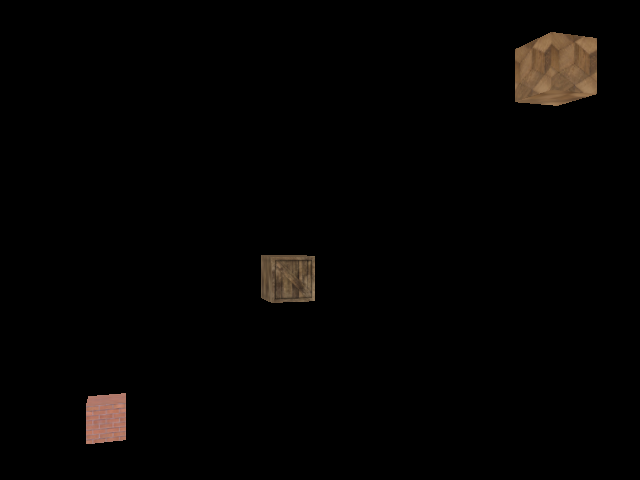
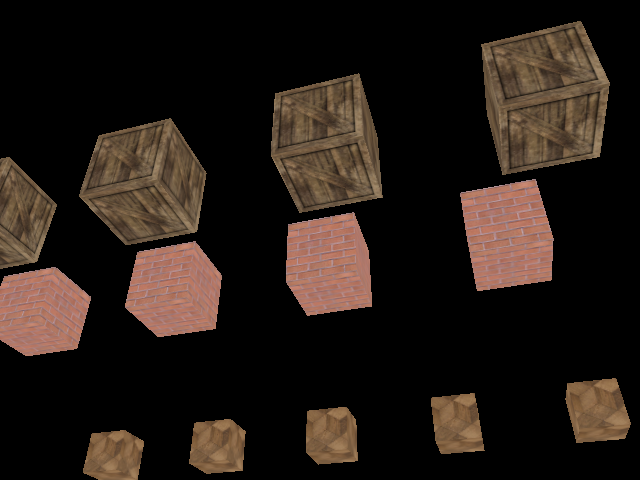
edits to drawing multiple cubes

diff --git a/src/camera_controls/camera_controls.cpp b/src/camera_controls/camera_controls.cpp
@@ -12,44 +12,57 @@
 
 using namespace std;
 
-
-const struct
+struct Vertices
 {
     float x, y, z;
     float u, v;
-} vertices[] =
+};
+
+Vertices cube_small_vertices[] =
 {
-    { -4.5, -4.5, -3.5, 0.0, 0.0 },
-    { -3.5, -4.5, -3.5, 1.0, 0.0 },
-    { -3.5, -3.5, -3.5, 1.0, 1.0 },
-    { -4.5, -3.5, -3.5, 0.0, 1.0 },
+    { -0.25, -0.25,  0.25, 0.0, 0.0 },
+    {  0.25, -0.25,  0.25, 1.0, 0.0 },
+    {  0.25,  0.25,  0.25, 1.0, 1.0 },
+    { -0.25,  0.25,  0.25, 0.0, 1.0 },
 
-    { -4.5, -3.5, -3.5, 0.0, 0.0 },
-    { -3.5, -3.5, -3.5, 1.0, 0.0 },
-    { -3.5, -3.5, -4.5, 1.0, 1.0 },
-    { -4.5, -3.5, -4.5, 0.0, 1.0 },
+    { -0.25,  0.25,  0.25, 0.0, 0.0 },
+    {  0.25,  0.25,  0.25, 1.0, 0.0 },
+    {  0.25,  0.25, -0.25, 1.0, 1.0 },
+    { -0.25,  0.25, -0.25, 0.0, 1.0 },
 
-    { -3.5, -4.5, -4.5, 0.0, 0.0 },
-    { -4.5, -4.5, -4.5, 1.0, 0.0 },
-    { -4.5, -3.5, -4.5, 1.0, 1.0 },
-    { -3.5, -3.5, -4.5, 0.0, 1.0 },
+    {  0.25, -0.25, -0.25, 0.0, 0.0 },
+    { -0.25, -0.25, -0.25, 1.0, 0.0 },
+    { -0.25,  0.25, -0.25, 1.0, 1.0 },
+    {  0.25,  0.25, -0.25, 0.0, 1.0 },
 
-    { -4.5, -4.5, -4.5, 0.0, 0.0 },
-    { -3.5, -4.5, -4.5, 1.0, 0.0 },
-    { -3.5, -4.5, -3.5, 1.0, 1.0 },
-    { -4.5, -4.5, -3.5, 0.0, 1.0 },
+    { -0.25, -0.25, -0.25, 0.0, 0.0 },
+    {  0.25, -0.25, -0.25, 1.0, 0.0 },
+    {  0.25, -0.25,  0.25, 1.0, 1.0 },
+    { -0.25, -0.25,  0.25, 0.0, 1.0 },
 
-    { -4.5, -4.5, -4.5, 0.0, 0.0 },
-    { -4.5, -4.5, -3.5, 1.0, 0.0 },
-    { -4.5, -3.5, -3.5, 1.0, 1.0 },
-    { -4.5, -3.5, -4.5, 0.0, 1.0 },
+    { -0.25, -0.25, -0.25, 0.0, 0.0 },
+    { -0.25, -0.25,  0.25, 1.0, 0.0 },
+    { -0.25,  0.25,  0.25, 1.0, 1.0 },
+    { -0.25,  0.25, -0.25, 0.0, 1.0 },
 
-    { -3.5, -4.5, -3.5, 0.0, 0.0 },
-    { -3.5, -4.5, -4.5, 1.0, 0.0 },
-    { -3.5, -3.5, -4.5, 1.0, 1.0 },
-    { -3.5, -3.5, -3.5, 0.0, 1.0 },
+    {  0.25, -0.25,  0.25, 0.0, 0.0 },
+    {  0.25, -0.25, -0.25, 1.0, 0.0 },
+    {  0.25,  0.25, -0.25, 1.0, 1.0 },
+    {  0.25,  0.25,  0.25, 0.0, 1.0 },
+};
 
+const uint32_t cube_small_indices[] =
+{
+     0,  1,  2,  2,  3,  0,
+     4,  5,  6,  6,  7,  4,
+     8,  9, 10, 10, 11,  8,
+    12, 13, 14, 14, 15, 12,
+    16, 17, 18, 18, 19, 16,
+    20, 21, 22, 22, 23, 20,
+};
 
+Vertices cube_medium_vertices[] =
+{
     { -0.5, -0.5,  0.5, 0.0, 0.0 },
     {  0.5, -0.5,  0.5, 1.0, 0.0 },
     {  0.5,  0.5,  0.5, 1.0, 1.0 },
@@ -79,62 +92,60 @@ const struct
     {  0.5, -0.5, -0.5, 1.0, 0.0 },
     {  0.5,  0.5, -0.5, 1.0, 1.0 },
     {  0.5,  0.5,  0.5, 0.0, 1.0 },
-
-
-    {  3.5,  3.5,  4.5, 0.0, 0.0 },
-    {  4.5,  3.5,  4.5, 1.0, 0.0 },
-    {  4.5,  4.5,  4.5, 1.0, 1.0 },
-    {  3.5,  4.5,  4.5, 0.0, 1.0 },
-
-    {  3.5,  4.5,  4.5, 0.0, 0.0 },
-    {  4.5,  4.5,  4.5, 1.0, 0.0 },
-    {  4.5,  4.5,  3.5, 1.0, 1.0 },
-    {  3.5,  4.5,  3.5, 0.0, 1.0 },
-
-    {  4.5,  3.5,  3.5, 0.0, 0.0 },
-    {  3.5,  3.5,  3.5, 1.0, 0.0 },
-    {  3.5,  4.5,  3.5, 1.0, 1.0 },
-    {  4.5,  4.5,  3.5, 0.0, 1.0 },
-
-    {  3.5,  3.5,  3.5, 0.0, 0.0 },
-    {  4.5,  3.5,  3.5, 1.0, 0.0 },
-    {  4.5,  3.5,  4.5, 1.0, 1.0 },
-    {  3.5,  3.5,  4.5, 0.0, 1.0 },
-
-    {  3.5,  3.5,  3.5, 0.0, 0.0 },
-    {  3.5,  3.5,  4.5, 1.0, 0.0 },
-    {  3.5,  4.5,  4.5, 1.0, 1.0 },
-    {  3.5,  4.5,  3.5, 0.0, 1.0 },
-
-    {  4.5,  3.5,  4.5, 0.0, 0.0 },
-    {  4.5,  3.5,  3.5, 1.0, 0.0 },
-    {  4.5,  4.5,  3.5, 1.0, 1.0 },
-    {  4.5,  4.5,  4.5, 0.0, 1.0 },
 };
 
-const uint32_t indices[] =
+const uint32_t cube_medium_indices[] =
 {
-     0,  1,  2,
-     2,  3,  0,
-
-     4,  5,  6,
-     6,  7,  4,
-
-     8,  9, 10,
-    10, 11,  8,
-
-    12, 13, 14,
-    14, 15, 12,
-
-    16, 17, 18,
-    18, 19, 16,
-
-    20, 21, 22,
-    22, 23, 20,
+     0,  1,  2,  2,  3,  0,
+     4,  5,  6,  6,  7,  4,
+     8,  9, 10, 10, 11,  8,
+    12, 13, 14, 14, 15, 12,
+    16, 17, 18, 18, 19, 16,
+    20, 21, 22, 22, 23, 20,
 };
 
-int num_cubes = 3;
-int num_vertices_per_cube = 24;
+Vertices cube_large_vertices[] =
+{
+    { -0.75, -0.75,  0.75, 0.0, 0.0 },
+    {  0.75, -0.75,  0.75, 1.0, 0.0 },
+    {  0.75,  0.75,  0.75, 1.0, 1.0 },
+    { -0.75,  0.75,  0.75, 0.0, 1.0 },
+
+    { -0.75,  0.75,  0.75, 0.0, 0.0 },
+    {  0.75,  0.75,  0.75, 1.0, 0.0 },
+    {  0.75,  0.75, -0.75, 1.0, 1.0 },
+    { -0.75,  0.75, -0.75, 0.0, 1.0 },
+
+    {  0.75, -0.75, -0.75, 0.0, 0.0 },
+    { -0.75, -0.75, -0.75, 1.0, 0.0 },
+    { -0.75,  0.75, -0.75, 1.0, 1.0 },
+    {  0.75,  0.75, -0.75, 0.0, 1.0 },
+
+    { -0.75, -0.75, -0.75, 0.0, 0.0 },
+    {  0.75, -0.75, -0.75, 1.0, 0.0 },
+    {  0.75, -0.75,  0.75, 1.0, 1.0 },
+    { -0.75, -0.75,  0.75, 0.0, 1.0 },
+
+    { -0.75, -0.75, -0.75, 0.0, 0.0 },
+    { -0.75, -0.75,  0.75, 1.0, 0.0 },
+    { -0.75,  0.75,  0.75, 1.0, 1.0 },
+    { -0.75,  0.75, -0.75, 0.0, 1.0 },
+
+    {  0.75, -0.75,  0.75, 0.0, 0.0 },
+    {  0.75, -0.75, -0.75, 1.0, 0.0 },
+    {  0.75,  0.75, -0.75, 1.0, 1.0 },
+    {  0.75,  0.75,  0.75, 0.0, 1.0 },
+};
+
+const uint32_t cube_large_indices[] =
+{
+     0,  1,  2,  2,  3,  0,
+     4,  5,  6,  6,  7,  4,
+     8,  9, 10, 10, 11,  8,
+    12, 13, 14, 14, 15, 12,
+    16, 17, 18, 18, 19, 16,
+    20, 21, 22, 22, 23, 20,
+};
 
 glm::vec3 camera_position = glm::vec3(0.0f, 0.0f, 3.0f);
 glm::vec3 camera_front = glm::vec3(0.0f, 0.0f, -1.0f);
@@ -154,9 +165,9 @@ string fragment_shader_filepath = "../src/camera_controls/textured_cube.frag";
 string screenshot_file = "../src/camera_controls/screenshot.png";
 string texture_filepath[] = 
 {
+    "../src/camera_controls/wood.jpg",
     "../src/camera_controls/bricks.jpg",
     "../src/camera_controls/crate.jpg",
-    "../src/camera_controls/wood.jpg",
 };
 
 string ReadShader(string filename)
@@ -194,6 +205,28 @@ void LoadProgram(GLuint &program, const char * vertex_shader_text, const char * 
 
     glDeleteShader(vertex_shader);
     glDeleteShader(fragment_shader);
+}
+
+void LoadVertexArray(GLuint &vertex_array, GLuint &vertex_buffer, GLuint &index_buffer, 
+    Vertices * vertices, size_t vertices_size, const uint32_t * indices, size_t indices_size)
+{
+    glGenVertexArrays(1, &vertex_array);
+    glBindVertexArray(vertex_array);
+
+    glGenBuffers(1, &index_buffer);
+    glBindBuffer(GL_ELEMENT_ARRAY_BUFFER, index_buffer);
+    glBufferData(GL_ELEMENT_ARRAY_BUFFER, indices_size, indices, GL_STATIC_DRAW);  
+
+    glGenBuffers(1, &vertex_buffer);
+    glBindBuffer(GL_ARRAY_BUFFER, vertex_buffer);
+    glBufferData(GL_ARRAY_BUFFER, vertices_size, vertices, GL_STATIC_DRAW);
+
+    glEnableVertexAttribArray(0);
+    glVertexAttribPointer(0, 3, GL_FLOAT, GL_FALSE, sizeof(Vertices), (void *)0);
+    glEnableVertexAttribArray(1);
+    glVertexAttribPointer(1, 2, GL_FLOAT, GL_FALSE, sizeof(Vertices), (void *)(sizeof(float)*3));
+    
+    glBindVertexArray(0);
 }
 
 bool LoadTexture(GLuint &texture, string filename)
@@ -343,10 +376,6 @@ int main(int argc, char ** argv)
 
     glEnable(GL_DEPTH_TEST);
 
-    GLuint vertex_array, vertex_buffer, index_buffer, program;
-    GLuint texture[3];
-    GLint mvp_location;
-
     string vertex_shader_string = ReadShader(vertex_shader_filepath);
     string fragment_shader_string = ReadShader(fragment_shader_filepath);
     const char * vertex_texture_shader_text = vertex_shader_string.c_str();
@@ -359,10 +388,16 @@ int main(int argc, char ** argv)
         return -1;
     }
 
+    GLuint program;
+    GLint mvp_location;
+
     LoadProgram(program, vertex_texture_shader_text, fragment_texture_shader_text);
+    glUseProgram(program);
     mvp_location = glGetUniformLocation(program, "mvp");
 
-    for(int i = 0; i < num_cubes; i++)
+    GLuint vertex_array[3], vertex_buffer[3], index_buffer[3], texture[3];
+
+    for(int i = 0; i < 3; i++)
         if(!LoadTexture(texture[i], texture_filepath[i]))
         {
             glfwDestroyWindow(window);
@@ -370,19 +405,12 @@ int main(int argc, char ** argv)
             return -1;
         }
 
-    glGenVertexArrays(1, &vertex_array);
-    glBindVertexArray(vertex_array);
-
-    glGenBuffers(1, &index_buffer);
-    glBindBuffer(GL_ELEMENT_ARRAY_BUFFER, index_buffer);
-    glBufferData(GL_ELEMENT_ARRAY_BUFFER, sizeof(indices), indices, GL_STATIC_DRAW);  
-
-    glGenBuffers(1, &vertex_buffer);
-    glBindBuffer(GL_ARRAY_BUFFER, vertex_buffer);
-    glBufferData(GL_ARRAY_BUFFER, sizeof(vertices), vertices, GL_STATIC_DRAW);
-
-    glEnableVertexAttribArray(0);
-    glEnableVertexAttribArray(1);
+    LoadVertexArray(vertex_array[0], vertex_buffer[0], index_buffer[0], 
+        cube_small_vertices, sizeof(cube_small_vertices), cube_small_indices, sizeof(cube_small_indices));
+    LoadVertexArray(vertex_array[1], vertex_buffer[1], index_buffer[1], 
+        cube_medium_vertices, sizeof(cube_medium_vertices), cube_medium_indices, sizeof(cube_medium_indices));
+    LoadVertexArray(vertex_array[2], vertex_buffer[2], index_buffer[2], 
+        cube_large_vertices, sizeof(cube_large_vertices), cube_large_indices, sizeof(cube_large_indices));
 
     while(!glfwWindowShouldClose(window))
     {
@@ -404,34 +432,56 @@ int main(int argc, char ** argv)
 
         view = glm::lookAt(camera_position, camera_position + camera_front, camera_up);
         projection = glm::perspective(glm::radians(fov), (float)width/(float)height, 0.1f, 100.0f);
-        mvp = projection * view * model;
-
-        glUseProgram(program);
-        glUniformMatrix4fv(mvp_location, 1, GL_FALSE, (const GLfloat *)&mvp);
-
-        for(int i = 0; i < num_cubes; i++)
+        
+        //small cube
+        glBindVertexArray(vertex_array[0]);
+        glBindTexture(GL_TEXTURE_2D, texture[0]);
+        model = translate(glm::mat4(1.0), glm::vec3(-4.5, 0.0, 0.0));
+        for(int i = 0; i < 5; i++)
         {
-            int vertex_pointer = num_vertices_per_cube * i * sizeof(vertices[0]);
-            int uv_pointer = vertex_pointer + sizeof(float)*3;
-
-            glVertexAttribPointer(0, 3, GL_FLOAT, GL_FALSE, sizeof(vertices[0]), (void *)vertex_pointer);
-            glVertexAttribPointer(1, 2, GL_FLOAT, GL_FALSE, sizeof(vertices[0]), (void *)uv_pointer);
-
-            glBindTexture(GL_TEXTURE_2D, texture[i]);
-            glDrawElements(GL_TRIANGLES, sizeof(indices)/sizeof(GLuint), GL_UNSIGNED_INT, NULL);
+            model = glm::translate(model, glm::vec3(1.5, 0.0, 0.0));
+            mvp = projection * view * model;
+            glUniformMatrix4fv(mvp_location, 1, GL_FALSE, (const GLfloat *)&mvp);
+            glDrawElements(GL_TRIANGLES, sizeof(cube_small_indices)/sizeof(GLuint), GL_UNSIGNED_INT, NULL);
+        }
+        
+        //medium cube
+        glBindVertexArray(vertex_array[1]);
+        glBindTexture(GL_TEXTURE_2D, texture[1]);
+        model = translate(glm::mat4(1.0), glm::vec3(-7.5, 2.5, 0.0));
+        for(int i = 0; i < 5; i++)
+        {
+            model = glm::translate(model, glm::vec3(2.5, 0.0, 0.0));
+            mvp = projection * view * model;
+            glUniformMatrix4fv(mvp_location, 1, GL_FALSE, (const GLfloat *)&mvp);
+            glDrawElements(GL_TRIANGLES, sizeof(cube_medium_indices)/sizeof(GLuint), GL_UNSIGNED_INT, NULL);
         }
 
+        //large cube
+        glBindVertexArray(vertex_array[2]);
+        glBindTexture(GL_TEXTURE_2D, texture[2]);
+        model = translate(glm::mat4(1.0), glm::vec3(-10.5, 5.0, 0.0));
+        for(int i = 0; i < 5; i++)
+        {
+            model = glm::translate(model, glm::vec3(3.5, 0.0, 0.0));
+            mvp = projection * view * model;
+            glUniformMatrix4fv(mvp_location, 1, GL_FALSE, (const GLfloat *)&mvp);
+            glDrawElements(GL_TRIANGLES, sizeof(cube_large_indices)/sizeof(GLuint), GL_UNSIGNED_INT, NULL);
+        }
+        
         glfwSwapBuffers(window);
         glfwPollEvents();
     }
 
-    for(int i = 0; i < num_cubes; i++)
+    for(int i = 0; i < 3; i++)
+    {
         glDeleteTextures(1, &texture[i]);
+        glDeleteVertexArrays(1, &vertex_array[0]);
+        glDeleteBuffers(1, &vertex_buffer[0]);
+        glDeleteBuffers(1, &index_buffer[0]);
+    }
 
     glDeleteProgram(program);
-    glDeleteBuffers(1, &vertex_buffer);
-    glDeleteBuffers(1, &index_buffer);
-    glDeleteVertexArrays(1, &vertex_array);
 
     glfwDestroyWindow(window);
     glfwTerminate();
